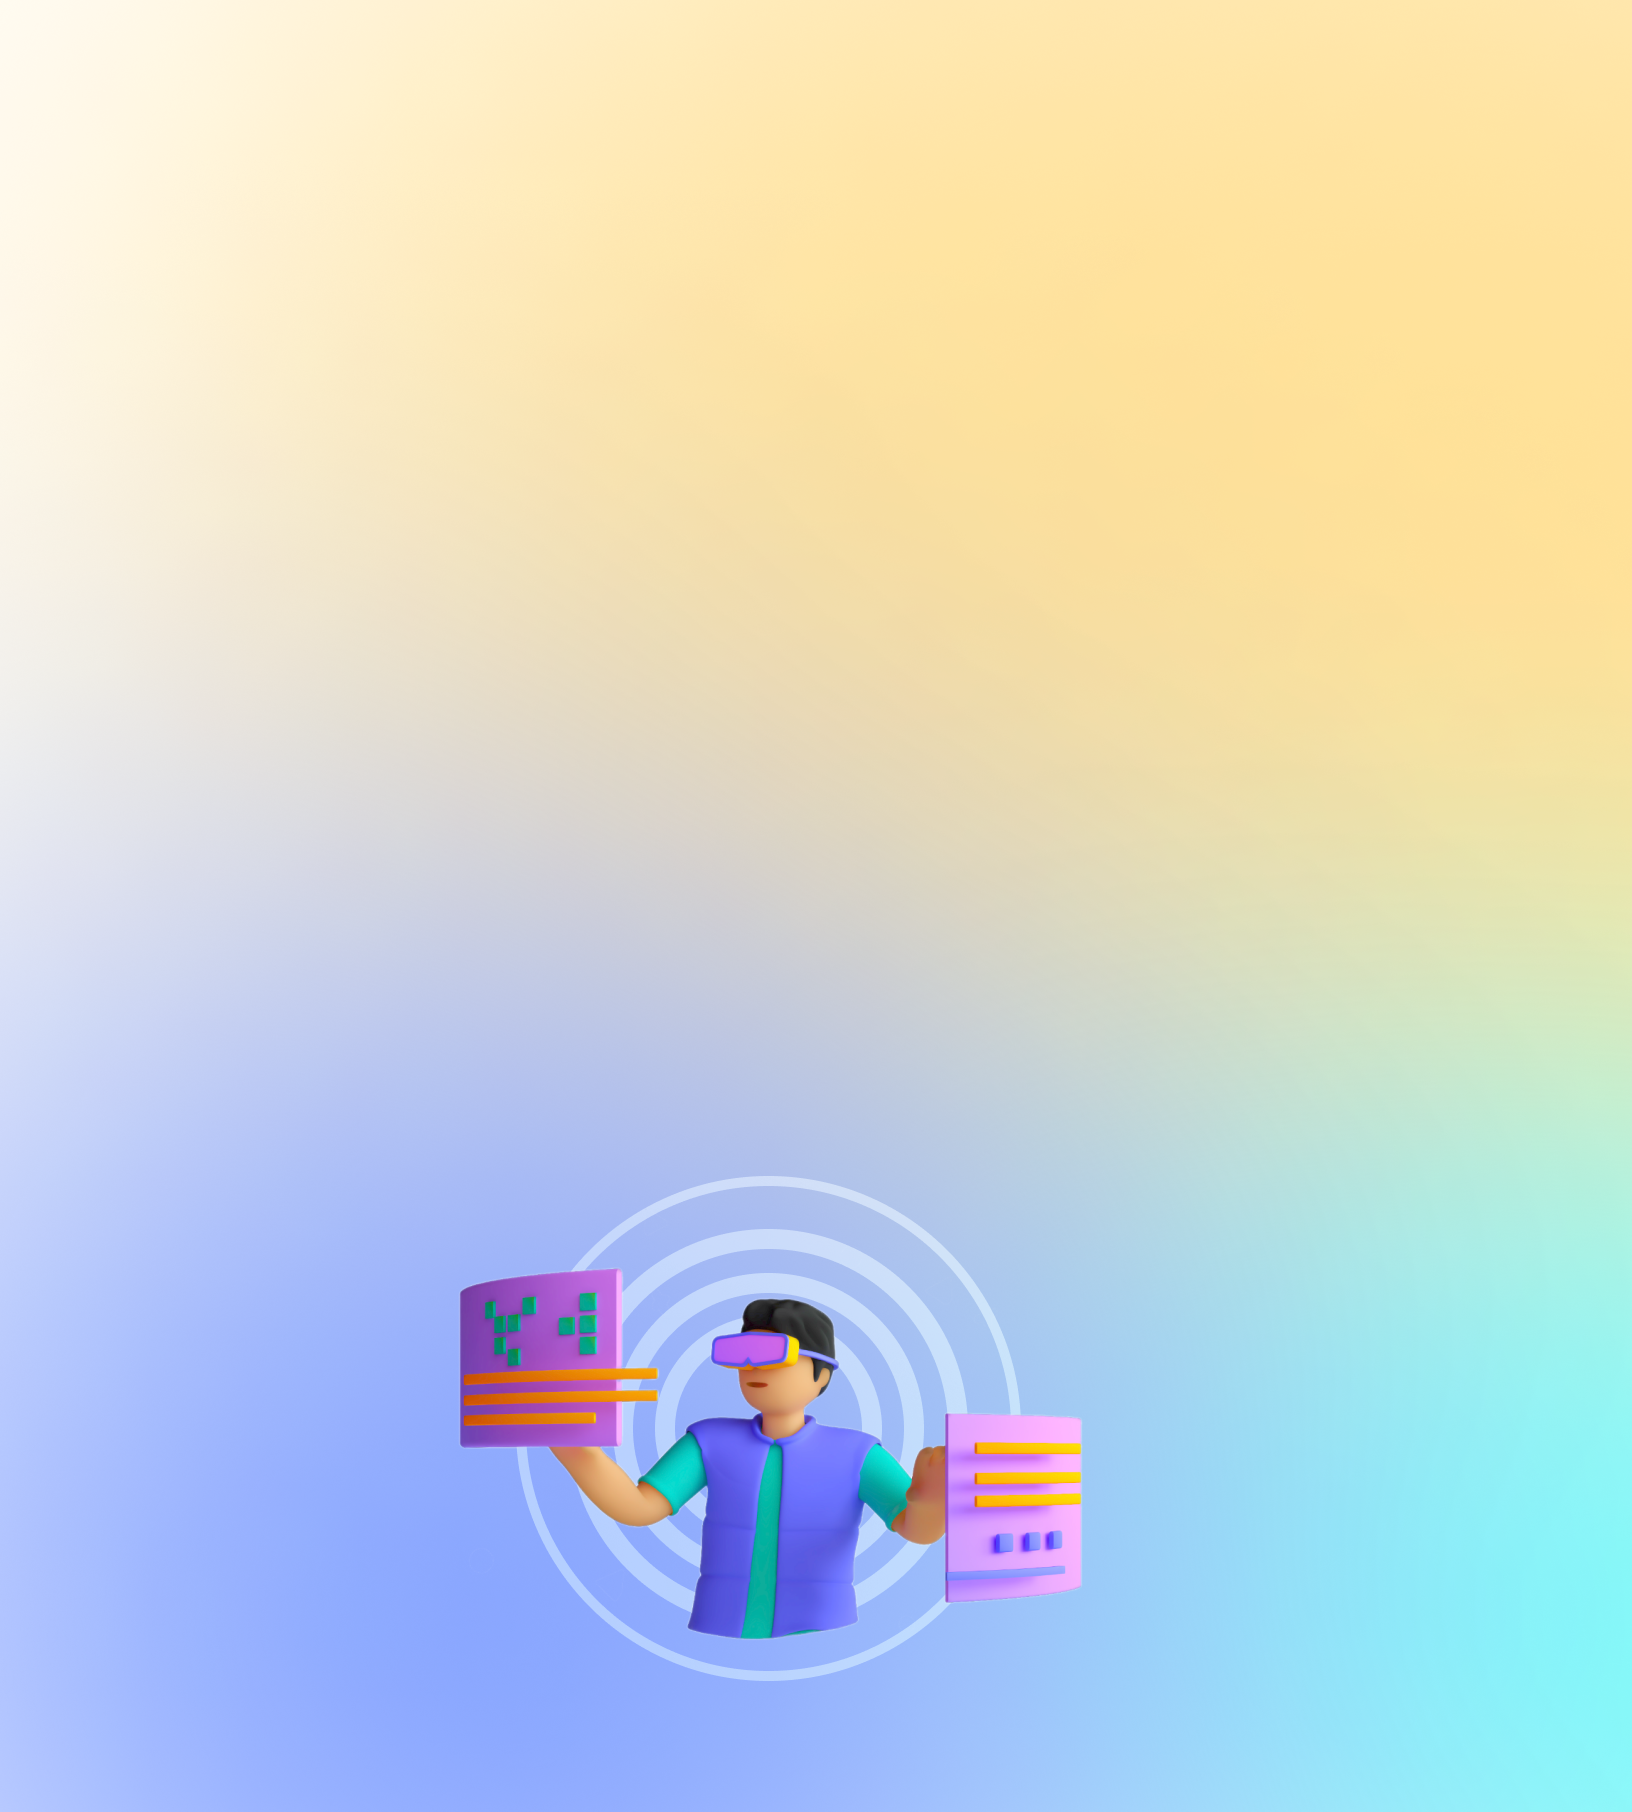
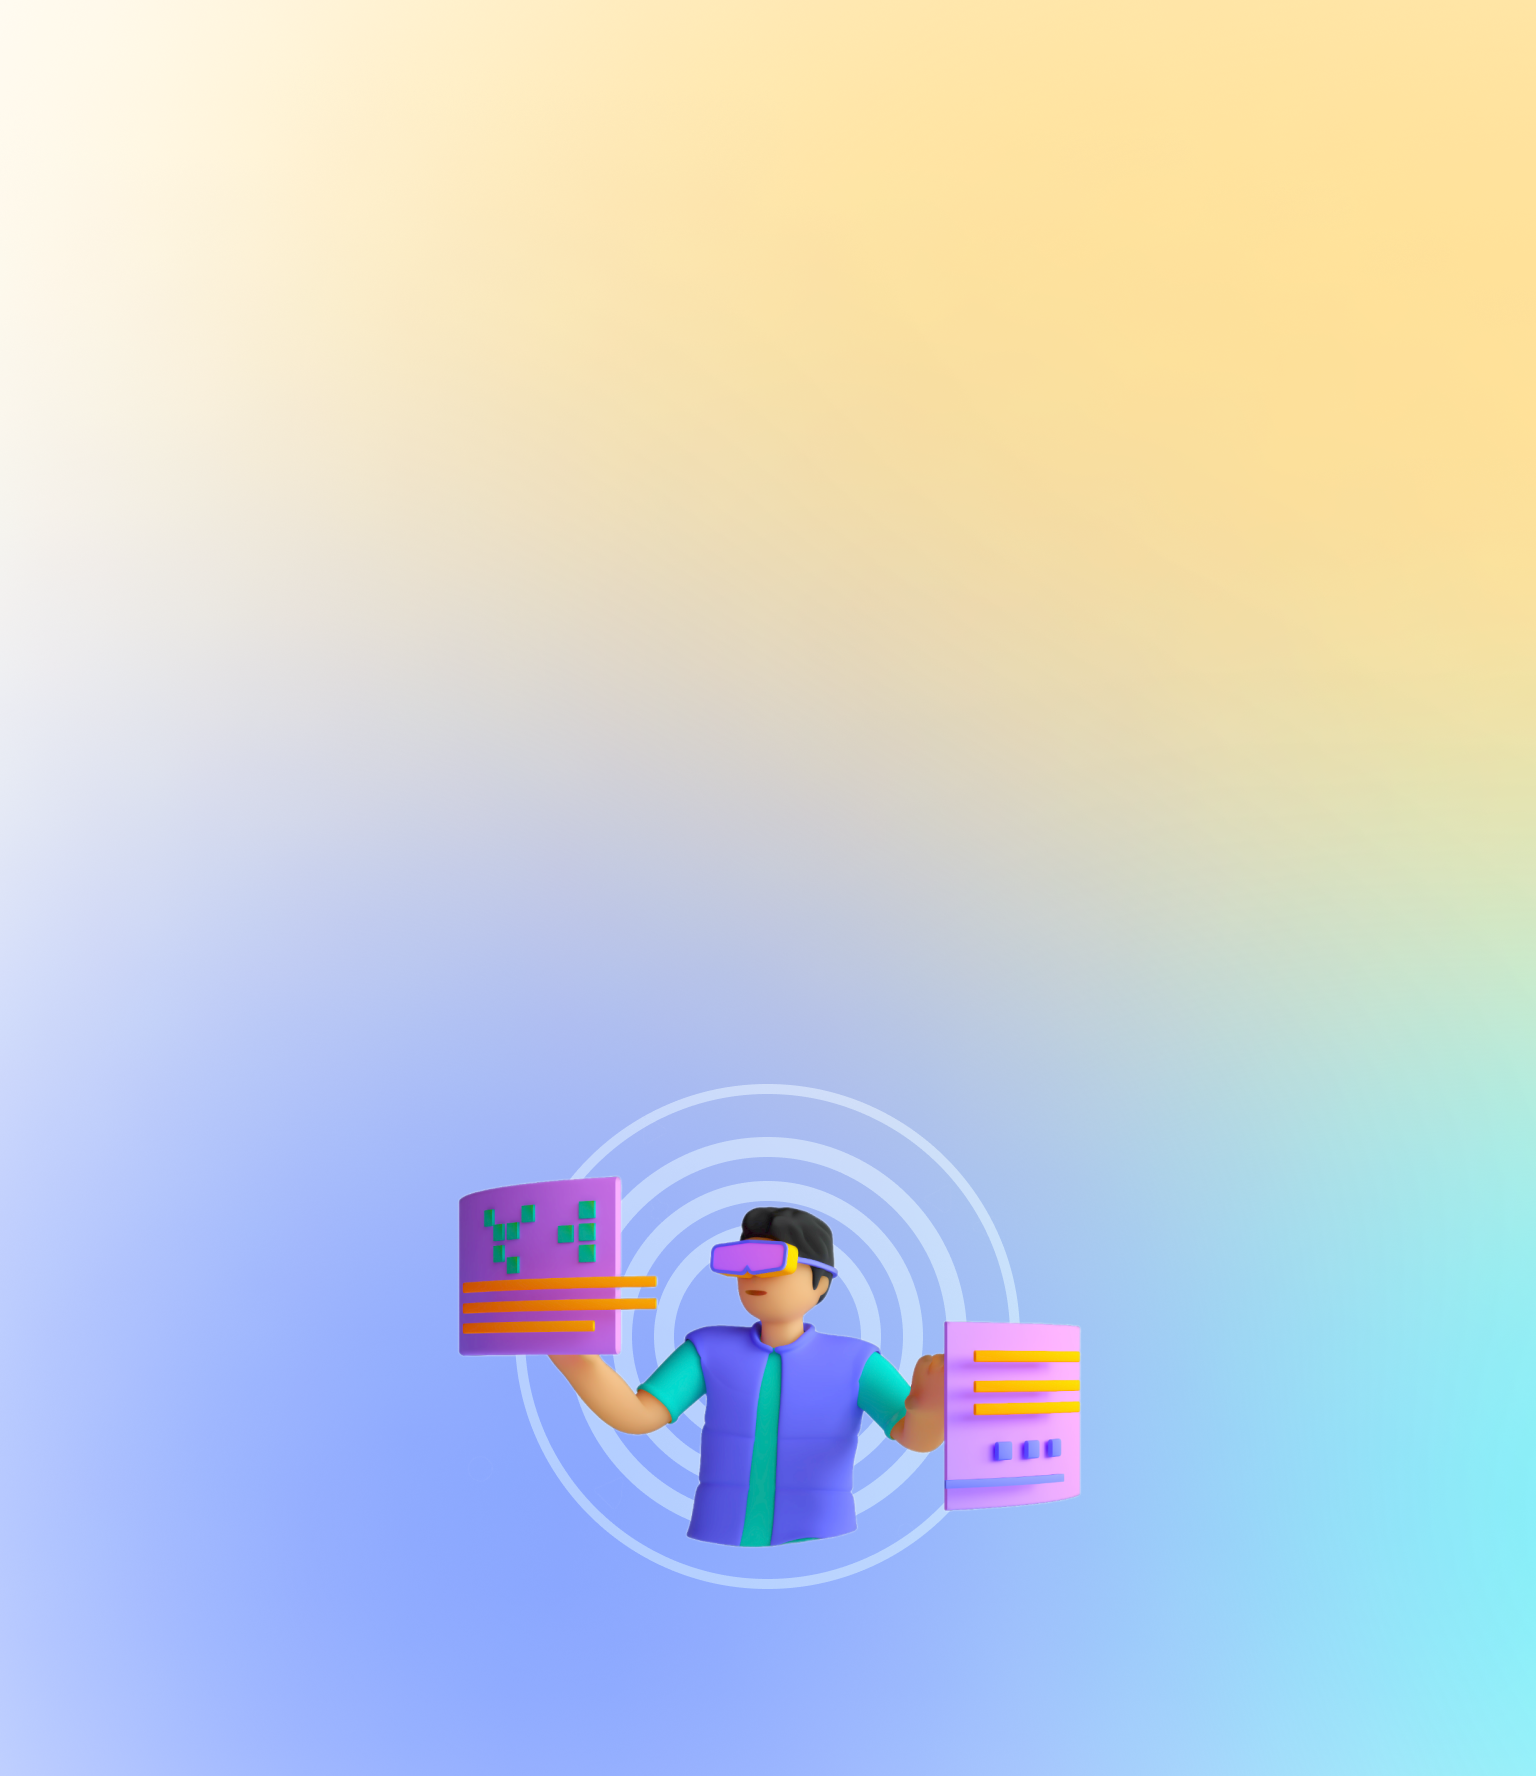
fixed styles

Changed region(s): [[0.2812, 0.6194, 0.7188, 0.9291]]

diff --git a/src/html/partials/sections/step-2.html b/src/html/partials/sections/step-2.html
@@ -1,11 +1,11 @@
 {% set section = step2 %}
 
-<section class="{{section.id}} duration-500 absolute top-0 right-[-100%] font-Inter py-10 w-full h-[888px] xl:py-[108px]  ">
+<section class="{{section.id}} duration-500 absolute top-0 right-[-100%] md:py-20 font-Inter py-10 w-full h-[888px] xl:py-[108px] xxl:py-[120px]  ">
   <div class="container  relative  ">
     <div class="wrapper xl:max-w-[704px]  md:mx-auto xl:ml-0">
 
       <div
-        class="wrapper-quiz-form   bg-[#FAFAFA] flex min-h-[428px] flex-col rounded-[40px]  p-5 md:min-h-[446px] md:p-10 xxl:min-h-[563px]"
+        class="wrapper-quiz-form md:min-h-[504px]  bg-[#FAFAFA] flex min-h-[446px] flex-col rounded-[40px]  p-5  md:p-10 xxl:min-h-[560px]"
       >
         <div class="quiz-wrapper">
           <h2
@@ -49,7 +49,7 @@
                     <span
                       class="radio-item block size-4 min-w-4 rounded-full border border-gray-400 bg-white transition-all duration-100 group-hover:border-2 group-hover:border-lilac-300 group-hover:bg-lilac-10 peer-checked:border-4 peer-checked:border-lilac-300 md:size-6 md:min-w-6 md:peer-checked:border-[6px]"
                     ></span>
-                    <span class=" text-sm text-gray-800 md:text-base"
+                    <span class=" text-sm text-gray-800 md:text-base xxl:text-xl"
                       >{{answer.text}}</span
                     >
                   </label>

diff --git a/src/assets/scss/sections/_step-2.scss b/src/assets/scss/sections/_step-2.scss
@@ -1,28 +1,28 @@
 .step-2 {
-  @apply xl:min-h-[80vh] xl:h-full;
+  @apply md:min-h-[80vh] md:h-[1344px] xl:h-full;
   background-image: url(../images/sections/step-2/bg-mob.webp);
   background-repeat: no-repeat;
-  background-size: 804px auto;
-  background-position: top 0px left calc(50% + 25px);
+  background-size: 768px 888px;
+  background-position: top 0px left calc(50% + 0px);
 
   @include mq(tablet) {
     background-image: url(../images/sections/step-2/bg-tab.webp);
-    background-size: auto 100%;
-    // background-position: top 0px left calc(50% + 0px);
+    background-size: auto 1844px;
+    background-position: top -500px left calc(50% + 0px);
   }
 
   @include mq(desktop) {
     background-image: url(../images/sections/step-2/bg-desk.webp);
     // background-size: cover;
-    background-size: auto 1130px;
-    background-position: top 0px left calc(50% + 30px);
+    background-size: auto 1344px;
+    background-position: top -100px left calc(50% + 30px);
 
   }
 
   @include mq(big-desktop) {
     background-image: url(../images/sections/step-2/bg-big-desk.webp);
     background-size: auto 1180px;
-    background-position: top 0px left calc(50% + 0px);
+    background-position: top -45px left calc(50% + 0px);
 
   }
 

diff --git a/src/assets/scss/sections/_step-1.scss b/src/assets/scss/sections/_step-1.scss
@@ -14,18 +14,18 @@
   @include mq(desktop) {
     background-image: url(../images/sections/step-1/bg-lap.webp);
     background-size: 2400px auto;
-    background-position: top -535px left calc(50% + 600px);
+    background-position: top -555px left calc(50% + 600px);
 
   }
 
   @include mq(big-desktop) {
     background-image: url(../images/sections/step-1/bg-desk.webp);
-    background-position: top -555px left calc(50% + 400px);
+    background-position: top -600px left calc(50% + 400px);
 
 
   }
 
-  @apply py-10 font-Inter  md:py-20  xl:py-[172px];
+  @apply py-10 font-Inter  md:py-20  xl:py-[172px] xxl:py-[208px];
 
   .title {
     @apply text-black-1A text-[26px] font-bold leading-[130%] md:text-[40px] md:w-[690px]
@@ -67,6 +67,6 @@
   }
 
   .btn {
-    @apply px-6 py-3 bg-[#C8F428] rounded-[40px] block text-sm text-black-1A w-full font-bold mt-10 xl:max-w-[320px] xxl:text-base
+    @apply px-6 py-3 bg-[#C8F428] rounded-[40px] block text-sm text-black-1A w-full font-bold mt-10 xl:max-w-[320px] xxl:text-base hover:bg-[#A9D703] duration-300 active:bg-[#D3F652]
   }
 }

diff --git a/tailwind.config.js b/tailwind.config.js
@@ -14,8 +14,8 @@ module.exports = {
       mdOnly: { min: '768px', max: '1279.98px' },
       notXl: { max: '1279.98px' },
     },
-    safelist: [ "translate-x-[-100%]",
-      "hidden", "right-[-100%]", "min-h-[1140px]", "min-h-[888px]", "xl:h-[80vh]", "xl:h-[720px]"
+    safelist: ["translate-x-[-100%]",
+      "hidden", "right-[-100%]", "min-h-[1140px]", "min-h-[888px]", "xl:h-[80vh]", "xl:h-[720px]", "md:min-h-[1344px]"
     ],
     // FONTS
     fontFamily: {

diff --git a/src/assets/js/passages.js b/src/assets/js/passages.js
@@ -7,6 +7,6 @@ stepOneBtn.addEventListener('click', () => {
   stepTwoSection.classList.remove('right-[-100%]');
   stepTwoSection.classList.add('right-0');
   stepOneSection.classList.remove('min-h-[888px]', "md:min-h-[1344px]", "xl:min-h-[80vh]");
-  stepOneSection.classList.add('min-h-[888px]', 'xl:min-h-[80vh]');
+  stepOneSection.classList.add('min-h-[888px]','md:min-h-[1344px]', 'xl:min-h-[80vh]');
 
 })
